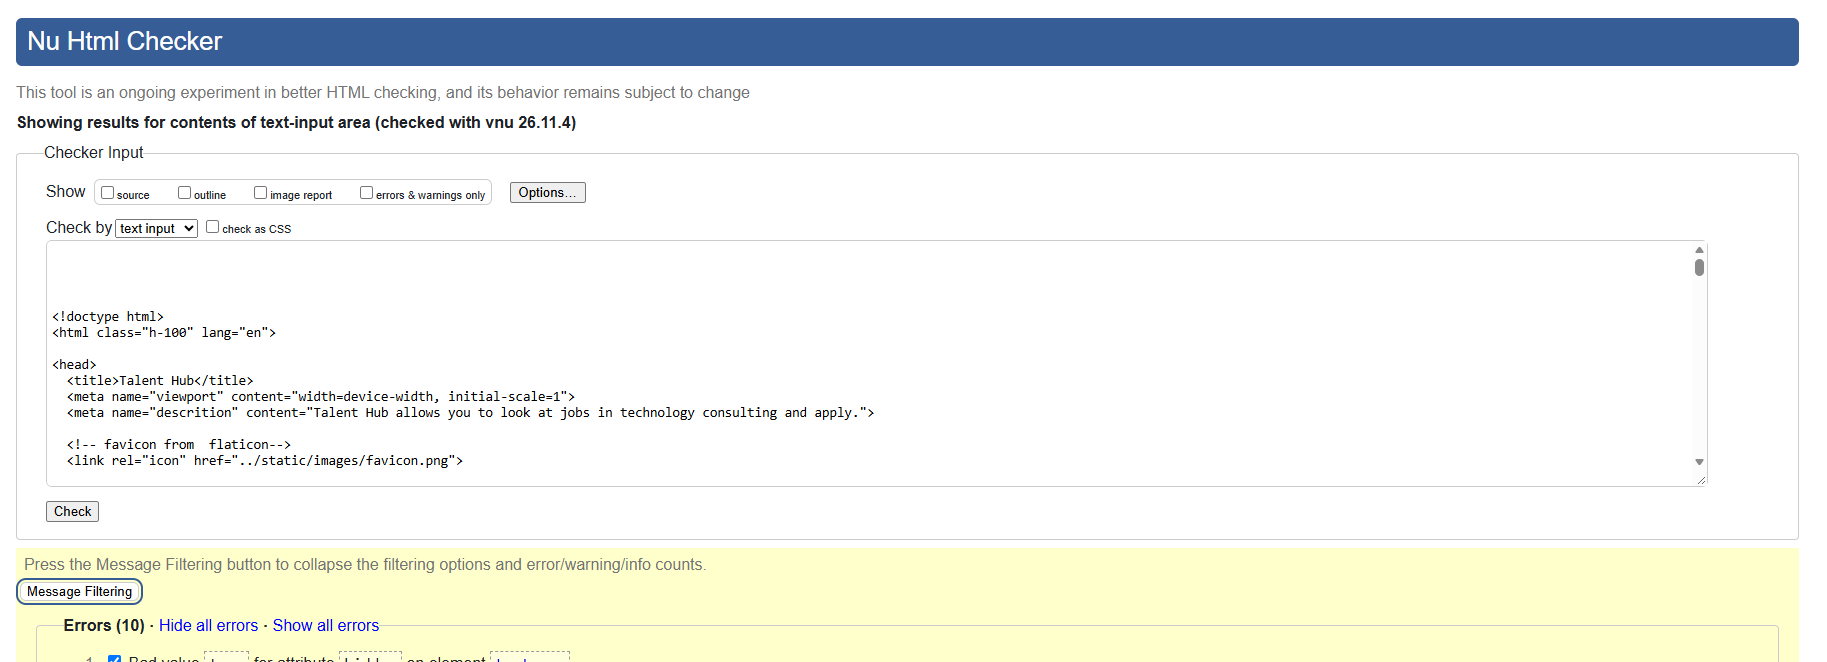
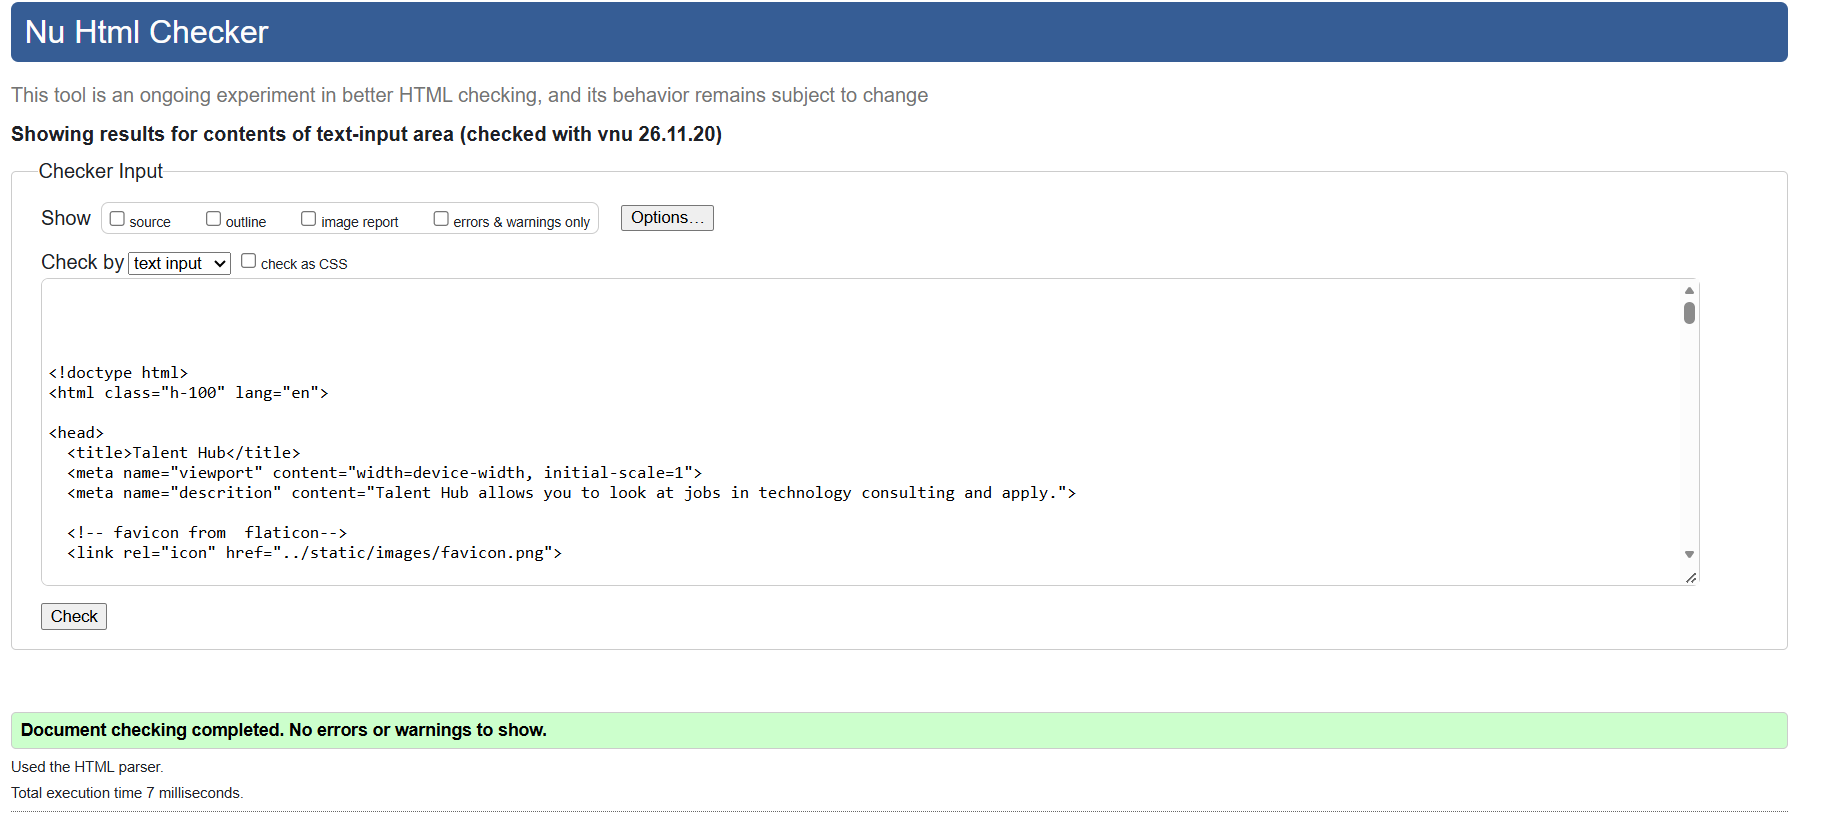
udated testing

diff --git a/testing.md b/testing.md
@@ -147,17 +147,21 @@ For an applicant dashboard, there are no errors:
 
 <img src="./static/images/html-testing-6.png">
 
-For the candidate profile edit form, there are 20 errors due to two summernote fields for skills and experience which are required for rich text in applications:
+For the candidate profile edit form, there were no errors:
 
 <img src="./static/images/html-testing-3.png">
 
-For the job edit form, there are 10 errors due to one summernote field for the job description:
+For the job edit form, there were no errors:
 
 <img src="./static/images/html-testing-7.png">
 
-For the company profile edit form, there were no effors:
+For the company profile edit form, there were no errors:
 
 <img src="./static/images/html-testing-8.png">
+
+For sign up page, there were no errors:
+
+<img src="./static/images/html-testing-9.png">
 
 ## CSS Testing
 Using the [CSS Validator](https://jigsaw.w3.org/css-validator/), I have no recorded errors and no warnings.
